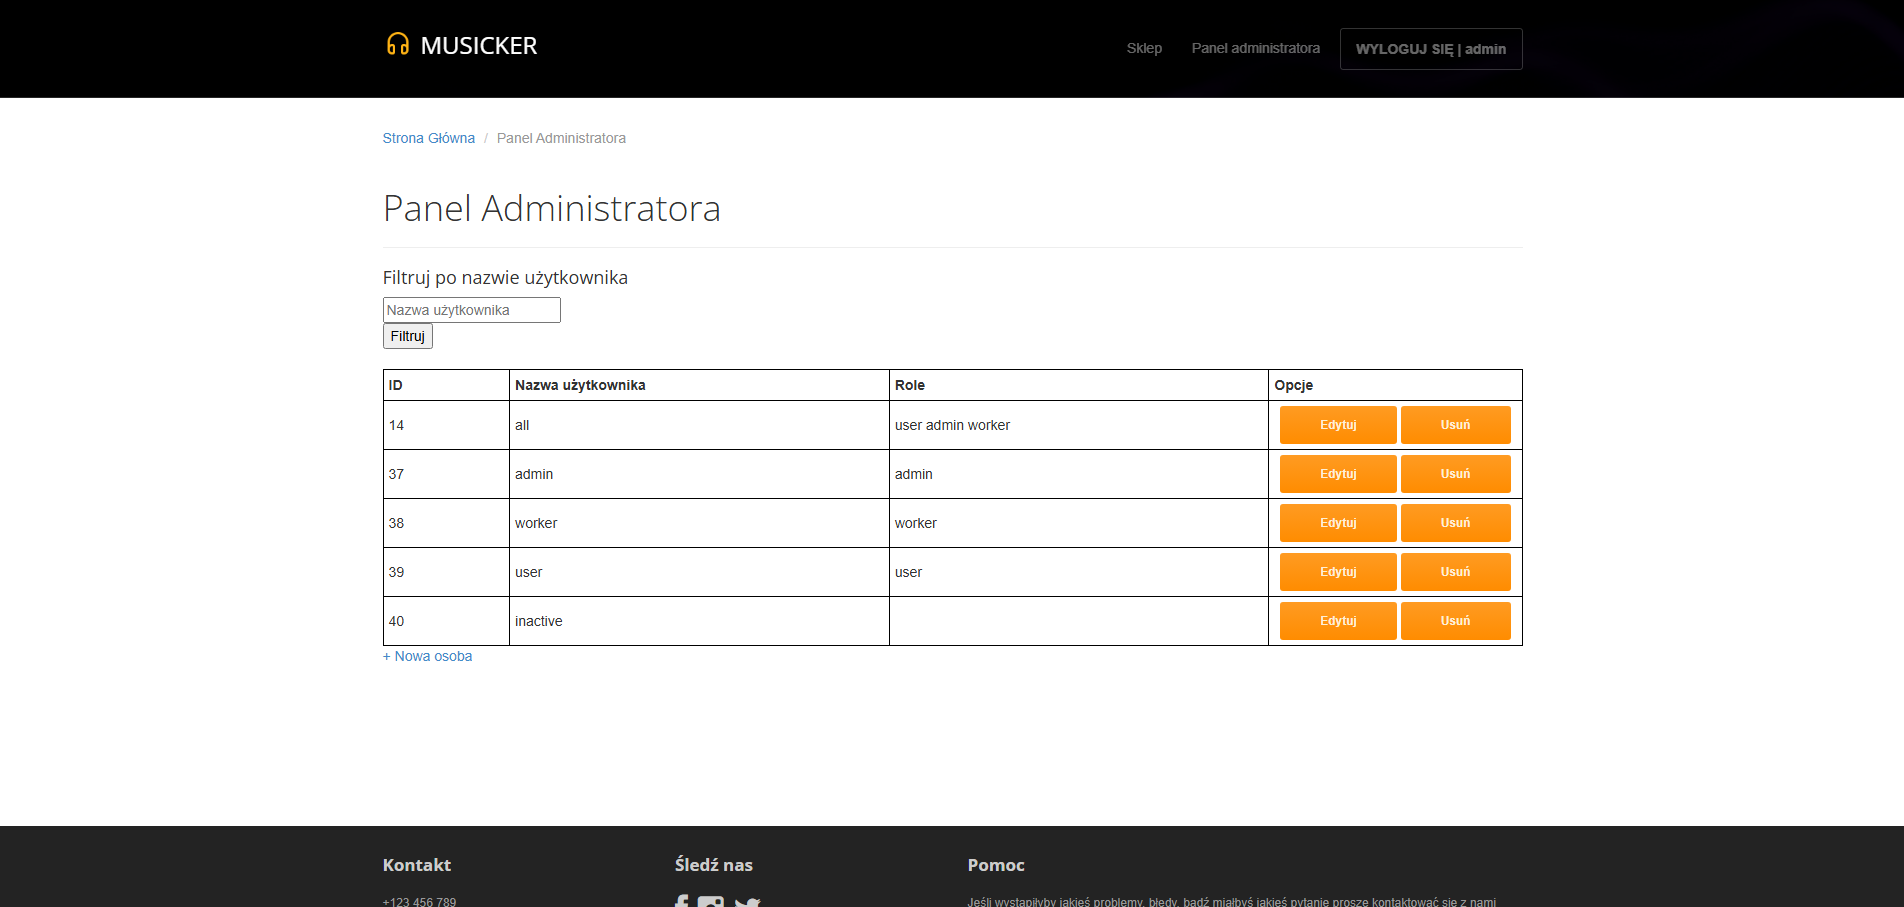
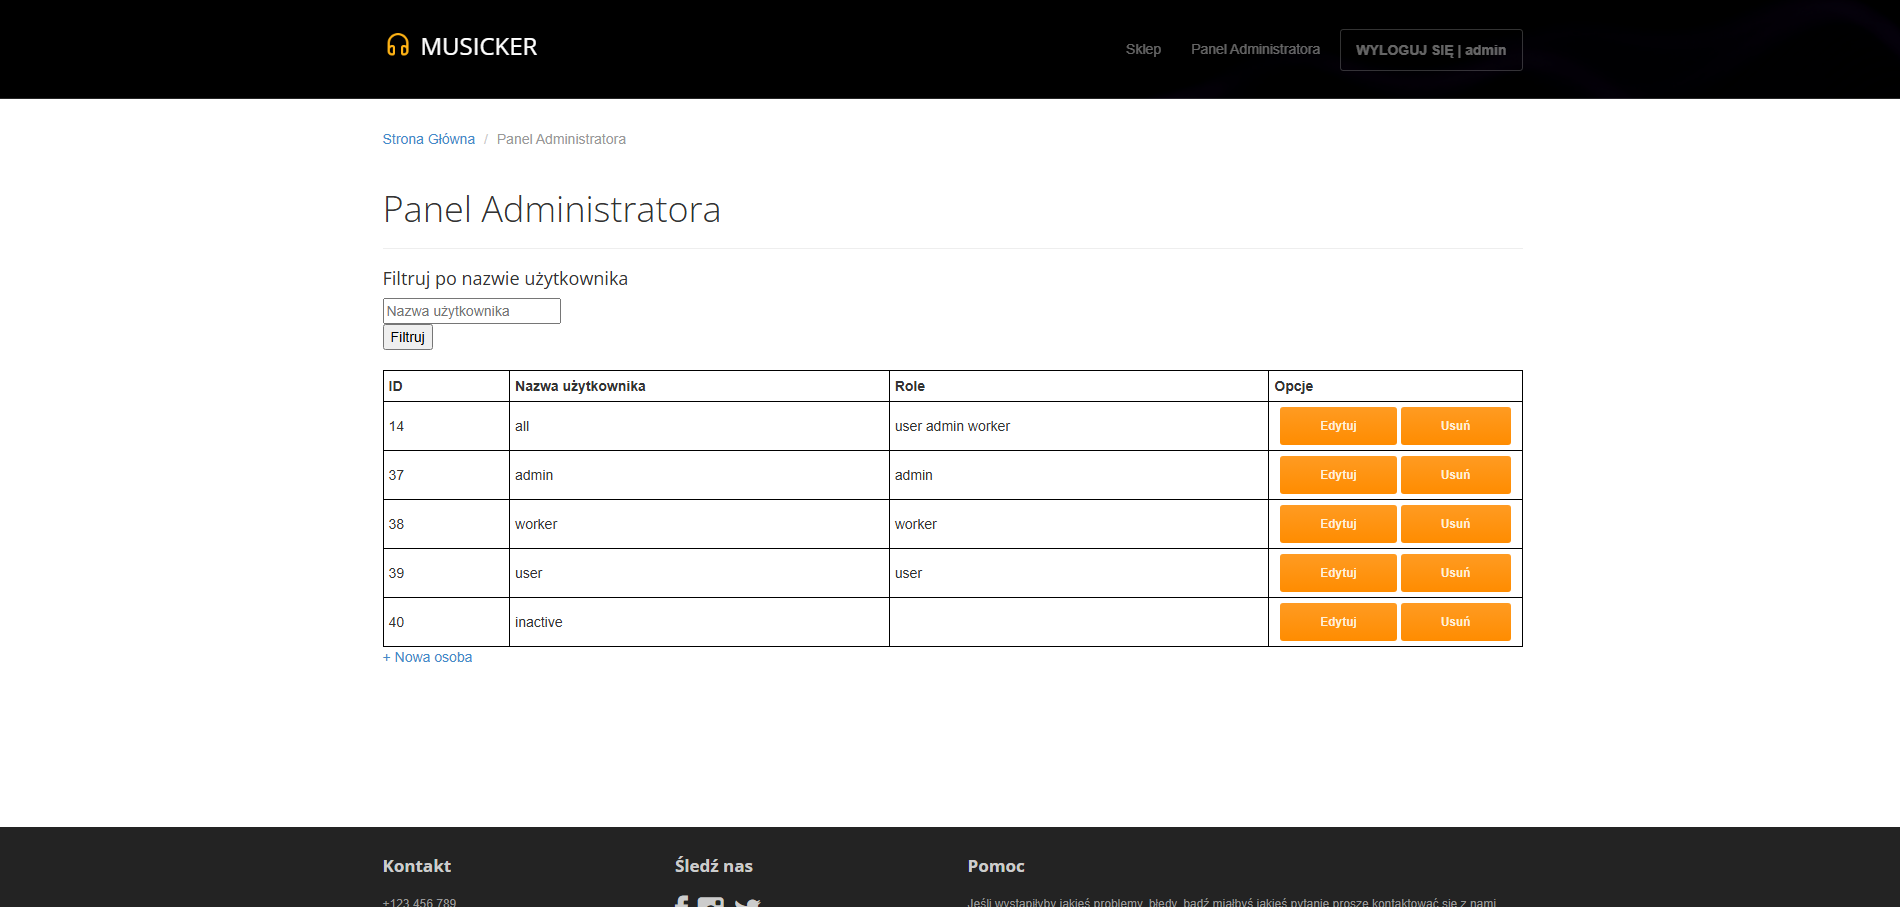
Przeslanie Poprawka routingu oraz panelu administratora

diff --git a/routing.php b/routing.php
@@ -20,7 +20,7 @@ Utils::addRoute('deleteCart', 'ShopCtrl', ['user']);
 Utils::addRoute('orderShow', 'OrderCtrl', ['worker']);
 Utils::addRoute('detailOrder', 'OrderCtrl', ['worker']);
 Utils::addRoute('acceptOrder', 'OrderCtrl', ['worker']);
-Utils::addRoute('libraryShow', 'libraryCtrl', ['user']);
+Utils::addRoute('libraryShow', 'LibraryCtrl', ['user']);
 Utils::addRoute('userList', 'UserListCtrl', ['admin']);
 Utils::addRoute('userListTable', 'UserListCtrl', ['admin']);
 Utils::addRoute('userEdit', 'UserEditCtrl', ['admin']);
